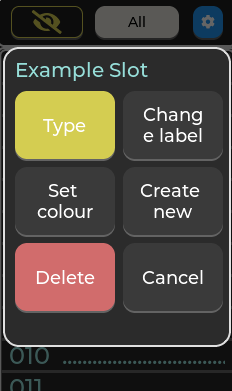
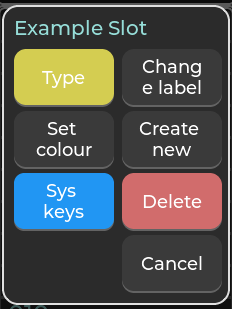
Updates for 1.0.1

diff --git a/docs/index.md b/docs/index.md
@@ -17,6 +17,8 @@ What it can do:
 
 Each slot is numbered from `001` to `256`.
 
+### [Jump to the changelog](#11-changelog)
+
 ---
 
 ## 2. First Start and Unlocking
@@ -91,6 +93,7 @@ Actions available:
 - `Change label`
 - `Set colour`
 - `Create new`
+- `Sys keys`
 - `Delete`
 - `Cancel`
 
@@ -155,6 +158,16 @@ Notes:
 - The generator may not include every selected type in every password
 - Once created, the password is saved directly into that slot
 
+### Sys keys
+
+Allows you to submit the following key presses
+
+- Ctrl-Alt-Del
+- Esc
+- Tab
+- Shift-Tab
+- Enter
+
 ### Delete
 
 Deleting a slot removes:
@@ -174,6 +187,7 @@ What you can do:
 - `Lock Timeout`
 - `Dim Timeout`
 - `Flip screen`
+- `Menu after type`
 - `Change PIN`
 - `USB Import / Export`
 - `Firmware update`
@@ -206,6 +220,10 @@ The device ensures the dim timeout always happens before lock timeout.
 ### Flip screen
 
 This rotates the display 180° and takes effect immediately. Convenient if your USB cable is connected from the top of the device, like mine.
+
+### Menu after type
+
+By default the device immediately returns to the main slot list after typing the password, but this setting allows you to override this behaviour (it is useful if you want to use system keys after typing your password)
 
 ### Change PIN
 
@@ -430,3 +448,15 @@ Factory reset removes:
 ### Factory reset
 
 - `Settings -> Factory Reset`
+
+OR (if you forget your PIN)
+1. Disassemble the device
+2. Power it on and wait for the PIN dialog
+3. Press `boot` button (right from the USB-C interface) for 10 seconds.
+
+## 11. Changelog
+
+### [1.0.1] - 2026-06-23
+- Sys keys feature added
+- Factory reset via boot button
+- Password generation improved